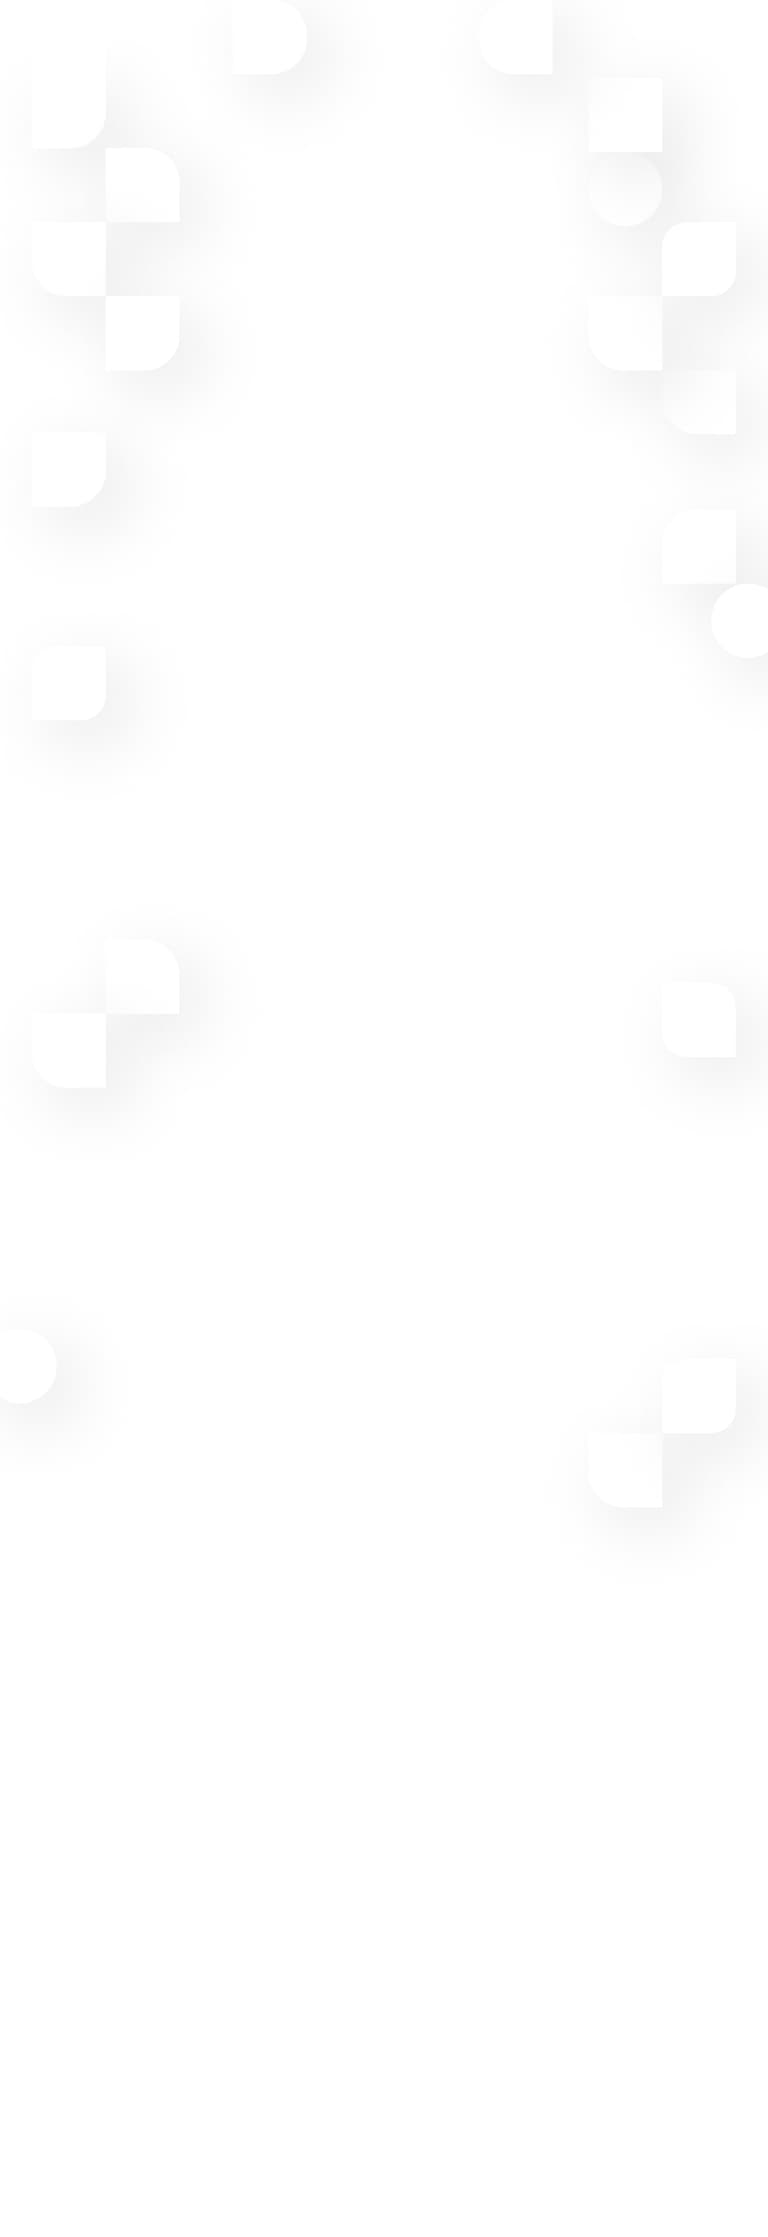
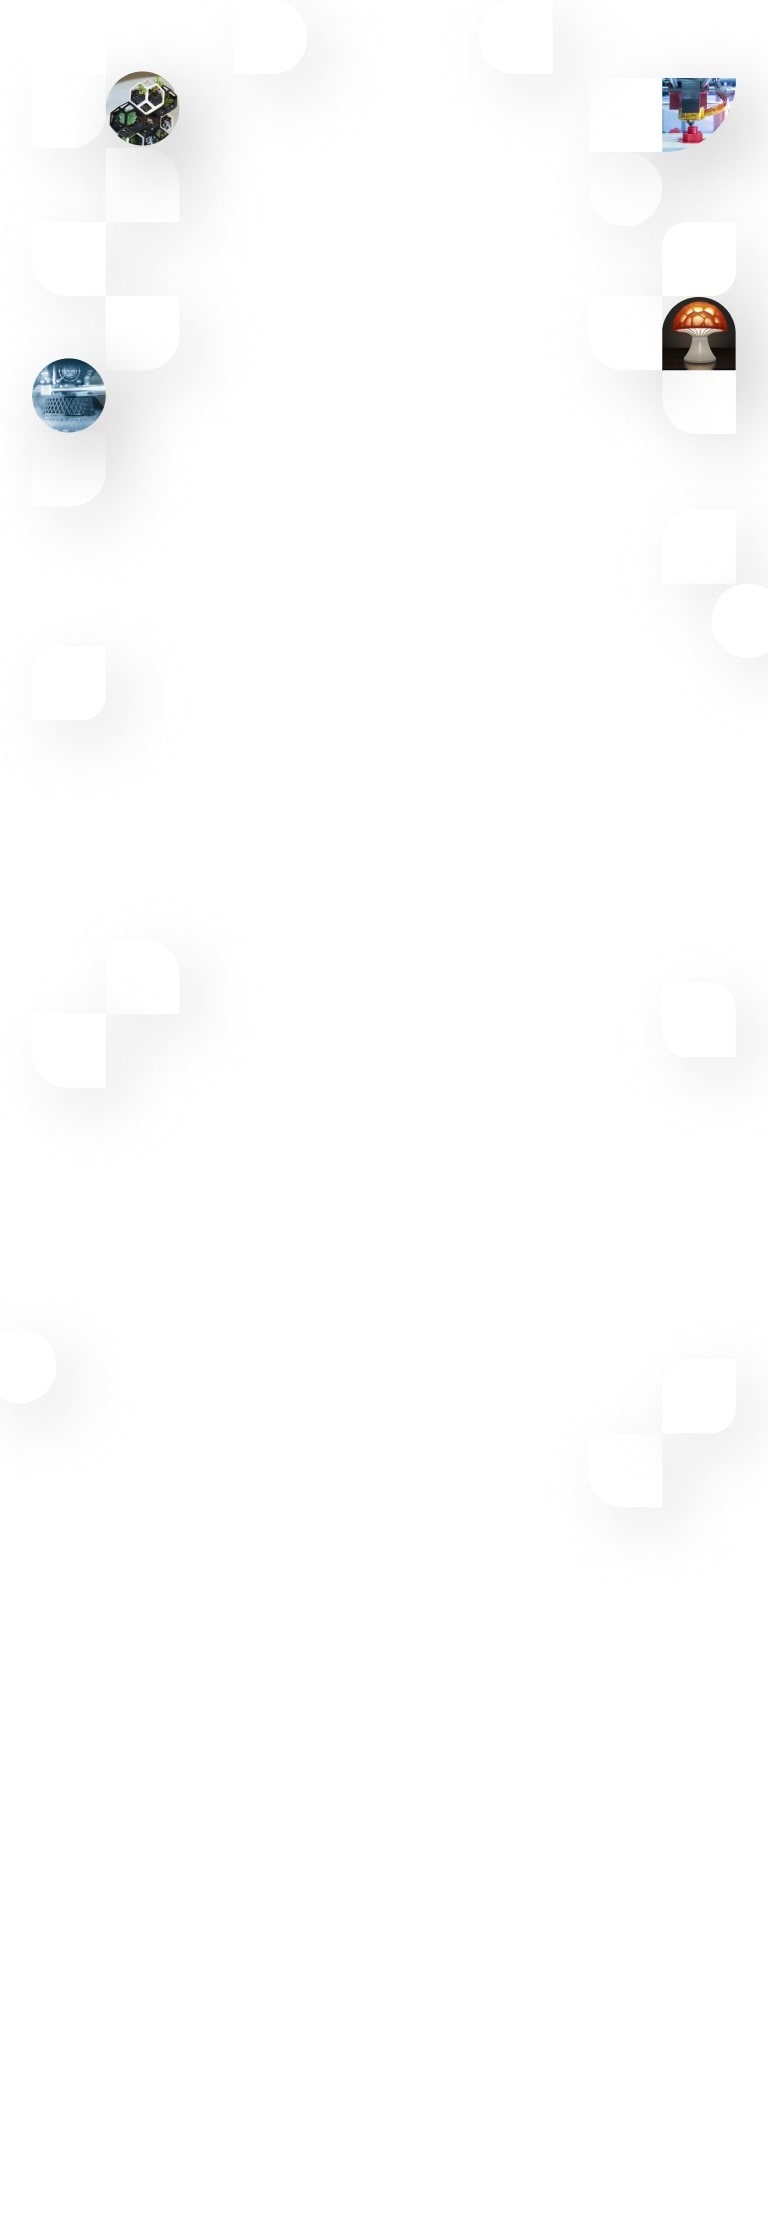
changed background

diff --git a/src/sass/base/_background.scss b/src/sass/base/_background.scss
@@ -1,15 +1,14 @@
 .main-page {
-  background-repeat: no-repeat;
+  background-repeat: repeat;
   background-position: top;
-  background-size: 480px;
-  // max-width: 480px;
+  background-size: 320px;
   @include centered-margin();
   background-image: url('../images/img-bg/mobile/bg-main-mob-1x.jpg');
   @include retina {
     background-image: url('../images/img-bg/mobile/bg-main-mob-2x.jpg');
   }
   @include tablet {
-    // max-width: 768px;
+    background-repeat: no-repeat;
     background-size: 768px;
     background-image: url('../images/img-bg/tablet/bg-main-tab-1x.jpg');
     @include retina {
@@ -17,7 +16,6 @@
     }
   }
   @include desktop {
-    // max-width: 1440px;
     background-size: 1440px;
     background-image: url('../images/img-bg/desktop/bg-main-dt-1x.jpg');
     @include retina {
@@ -27,17 +25,16 @@
 }
 
 .modeling-page {
-  background-repeat: no-repeat;
+  background-repeat: repeat;
   background-position: top;
-  // max-width: 480px;
-  background-size: 480px;
+  background-size: 320px;
   @include centered-margin();
   background-image: url('../images/img-bg/mobile/bg-3d-modeling-mob-1x.jpg');
   @include retina {
     background-image: url('../images/img-bg/mobile/bg-3d-modeling-mob-2x.jpg');
   }
   @include tablet {
-    // max-width: 768px;
+    background-repeat: no-repeat;
     background-size: 768px;
     background-image: url('../images/img-bg/tablet/bg-3d-modeling-tab-1x.jpg');
     @include retina {
@@ -45,7 +42,6 @@
     }
   }
   @include desktop {
-    // max-width: 1440px;
     background-size: 1440px;
     background-image: url('../images/img-bg/desktop/bg-3d-modeling-dt-1x.jpg');
     @include retina {
@@ -55,17 +51,16 @@
 }
 
 .scanning-page {
-  background-repeat: no-repeat;
+  background-repeat: repeat;
   background-position: top;
-  // max-width: 480px;
-  background-size: 480px;
+  background-size: 320px;
   @include centered-margin();
   background-image: url('../images/img-bg/mobile/bg-3d-scanning-mob-1x.jpg');
   @include retina {
     background-image: url('../images/img-bg/mobile/bg-3d-scanning-mob-2x.jpg');
   }
   @include tablet {
-    // max-width: 768px;
+    background-repeat: no-repeat;
     background-size: 768px;
     background-image: url('../images/img-bg/tablet/bg-3d-scanning-tab-1x.jpg');
     @include retina {
@@ -73,7 +68,6 @@
     }
   }
   @include desktop {
-    // max-width: 1440px;
     background-size: 1440px;
     background-image: url('../images/img-bg/desktop/bg-3d-scanning-dt-1x.jpg');
     @include retina {
@@ -83,17 +77,16 @@
 }
 
 .printing-page {
-  background-repeat: no-repeat;
+  background-repeat: repeat;
   background-position: top;
-  // max-width: 480px;
-  background-size: 480px;
+  background-size: 320px;
   @include centered-margin();
   background-image: url('../images/img-bg/mobile/bg-3d-printing-mob-1x.jpg');
   @include retina {
     background-image: url('../images/img-bg/mobile/bg-3d-printing-mob-2x.jpg');
   }
   @include tablet {
-    // max-width: 768px;
+    background-repeat: no-repeat;
     background-size: 768px;
     background-image: url('../images/img-bg/tablet/bg-3d-printing-tab-1x.jpg');
     @include retina {
@@ -101,7 +94,6 @@
     }
   }
   @include desktop {
-    // max-width: 1440px;
     background-size: 1440px;
     background-image: url('../images/img-bg/desktop/bg-3d-printing-dt-1x.jpg');
     @include retina {
@@ -111,17 +103,16 @@
 }
 
 .take-order-page {
-  background-repeat: no-repeat;
+  background-repeat: repeat;
   background-position: top;
-  // max-width: 480px;
-  background-size: 480px;
+  background-size: 320px;
   @include centered-margin();
   background-image: url('../images/img-bg/mobile/bg-take-order-mob-1x.jpg');
   @include retina {
     background-image: url('../images/img-bg/mobile/bg-take-order-mob-2x.jpg');
   }
   @include tablet {
-    // max-width: 768px;
+    background-repeat: no-repeat;
     background-size: 768px;
     background-image: url('../images/img-bg/tablet/bg-take-order-tab-1x.jpg');
     @include retina {
@@ -129,7 +120,6 @@
     }
   }
   @include desktop {
-    // max-width: 1440px;
     background-size: 1440px;
     background-image: url('../images/img-bg/desktop/bg-take-order-dt-1x.jpg');
     @include retina {
@@ -139,17 +129,16 @@
 }
 
 .contact-page {
-  background-repeat: no-repeat;
+  background-repeat: repeat;
   background-position: top;
-  // max-width: 480px;
-  background-size: 480px;
+  background-size: 320px;
   @include centered-margin();
   background-image: url('../images/img-bg/mobile/bg-contact-mob-1x.jpg');
   @include retina {
     background-image: url('../images/img-bg/mobile/bg-contact-mob-2x.jpg');
   }
   @include tablet {
-    // max-width: 768px;
+    background-repeat: no-repeat;
     background-size: 768px;
     background-image: url('../images/img-bg/tablet/bg-contact-tab-1x.jpg');
     @include retina {
@@ -157,7 +146,6 @@
     }
   }
   @include desktop {
-    // max-width: 1440px;
     background-size: 1440px;
     background-image: url('../images/img-bg/desktop/bg-contact-dt-1x.jpg');
     @include retina {
